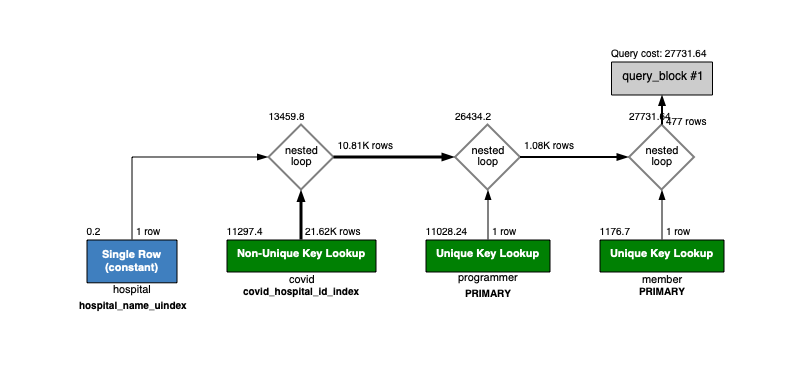
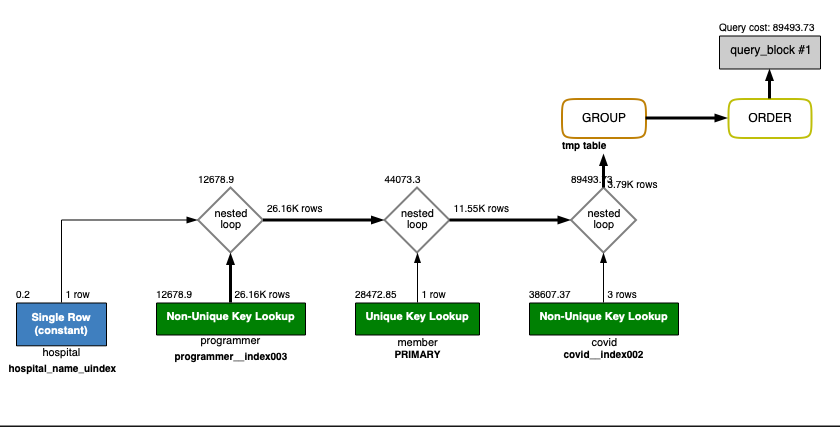
refactor: B. 인덱스 설계 쿼리 수정
- 인라인뷰 쿼리 -> 조인쿼리 변경
- explain before & after 추가
- column update query 추가

diff --git a/images/b/query4.md b/images/b/query4.md
@@ -1,10 +1,10 @@
 ##### Q4. 서울대병원에 다닌 20대 India 환자들을 병원에 머문 기간별로 집계하세요.
 ```sql
-SELECT covid.stay, count(*)
+SELECT covid.stay, count(*) as count
 FROM member
-         INNER JOIN programmer ON member.id = programmer.member_id
-         INNER JOIN covid ON programmer.id = covid.programmer_id
-         INNER JOIN hospital ON covid.hospital_id = hospital.id
+    INNER JOIN programmer ON member.id = programmer.member_id
+    INNER JOIN covid ON programmer.id = covid.programmer_id
+    INNER JOIN hospital ON covid.hospital_id = hospital.id
 WHERE programmer.country = 'India'
   AND member.age >= 20 AND member.age < 30
   AND hospital.name = '서울대병원'
@@ -12,42 +12,83 @@ GROUP BY covid.stay
 ORDER BY NULL;
 ```
 
-##### BEFORE (약 482ms)
+##### BEFORE
 ```text
-+--+-----------+----------+----------+------+--------------------------------------------------------+---------------------------+-------+---------------------------+-----+--------+--------------------------------------------------+
-|id|select_type|table     |partitions|type  |possible_keys                                           |key                        |key_len|ref                        |rows |filtered|Extra                                             |
-+--+-----------+----------+----------+------+--------------------------------------------------------+---------------------------+-------+---------------------------+-----+--------+--------------------------------------------------+
-|1 |SIMPLE     |programmer|NULL      |ref   |PRIMARY,programmer_id_uindex,idx_user_Country_OpenSource|idx_user_Country_OpenSource|1023   |const                      |25612|100     |Using where                                       |
-|1 |SIMPLE     |member    |NULL      |eq_ref|PRIMARY                                                 |PRIMARY                    |8      |subway.programmer.member_id|1    |11.11   |Using where                                       |
-|1 |SIMPLE     |covid     |NULL      |ref   |covid__index001                                         |covid__index001            |9      |subway.programmer.id       |3    |100     |NULL                                              |
-|1 |SIMPLE     |hospital  |NULL      |ALL   |PRIMARY,hospital_id_uindex                              |NULL                       |NULL   |NULL                       |32   |3.12    |Using where; Using join buffer (Block Nested Loop)|
-+--+-----------+----------+----------+------+--------------------------------------------------------+---------------------------+-------+---------------------------+-----+--------+--------------------------------------------------+
++--+-----------+----------+----------+------+-------------+-------+-------+---------------------------+------+--------+--------------------------------------------------+
+|id|select_type|table     |partitions|type  |possible_keys|key    |key_len|ref                        |rows  |filtered|Extra                                             |
++--+-----------+----------+----------+------+-------------+-------+-------+---------------------------+------+--------+--------------------------------------------------+
+|1 |SIMPLE     |hospital  |NULL      |ALL   |NULL         |NULL   |NULL   |NULL                       |32    |10      |Using where; Using temporary                      |
+|1 |SIMPLE     |programmer|NULL      |ALL   |NULL         |NULL   |NULL   |NULL                       |71210 |10      |Using where; Using join buffer (Block Nested Loop)|
+|1 |SIMPLE     |member    |NULL      |eq_ref|PRIMARY      |PRIMARY|8      |subway.programmer.member_id|1     |11.11   |Using where                                       |
+|1 |SIMPLE     |covid     |NULL      |ALL   |NULL         |NULL   |NULL   |NULL                       |315397|1       |Using where; Using join buffer (Block Nested Loop)|
++--+-----------+----------+----------+------+-------------+-------+-------+---------------------------+------+--------+--------------------------------------------------+
+
 ```
 
 ##### AFTER
 ```text
-+--+-----------+----------+----------+------+-------------------------------------------------+--------------------+-------+---------------------------+-----+--------+----------------------------+
-|id|select_type|table     |partitions|type  |possible_keys                                    |key                 |key_len|ref                        |rows |filtered|Extra                       |
-+--+-----------+----------+----------+------+-------------------------------------------------+--------------------+-------+---------------------------+-----+--------+----------------------------+
-|1 |SIMPLE     |hospital  |NULL      |const |PRIMARY,hospital_id_uindex,hospital_name_uindex  |hospital_name_uindex|1022   |const                      |1    |100     |Using index; Using temporary|
-|1 |SIMPLE     |programmer|NULL      |ref   |PRIMARY,programmer_id_uindex,programmer__index003|programmer__index003|1023   |const                      |26162|100     |Using where                 |
-|1 |SIMPLE     |member    |NULL      |eq_ref|PRIMARY,member_index001                          |PRIMARY             |8      |subway.programmer.member_id|1    |44.16   |Using where                 |
-|1 |SIMPLE     |covid     |NULL      |ref   |covid__index001,covid__index002                  |covid__index002     |9      |subway.programmer.id       |3    |10      |Using where                 |
-+--+-----------+----------+----------+------+-------------------------------------------------+--------------------+-------+---------------------------+-----+--------+----------------------------+
-
++--+-----------+----------+----------+------+-----------------------------------------------+--------------------+-------+---------------------------+------+--------+------------------------+
+|id|select_type|table     |partitions|type  |possible_keys                                  |key                 |key_len|ref                        |rows  |filtered|Extra                   |
++--+-----------+----------+----------+------+-----------------------------------------------+--------------------+-------+---------------------------+------+--------+------------------------+
+|1 |SIMPLE     |hospital  |NULL      |const |PRIMARY,hospital_name_uindex,hospital__index001|hospital_name_uindex|1022   |const                      |1     |100     |Using index             |
+|1 |SIMPLE     |covid     |NULL      |index |covid__index001                                |covid__index001     |1039   |NULL                       |315501|10      |Using where; Using index|
+|1 |SIMPLE     |programmer|NULL      |eq_ref|PRIMARY,programmer__index001                   |PRIMARY             |8      |subway.covid.programmer_id |1     |35.14   |Using where             |
+|1 |SIMPLE     |member    |NULL      |eq_ref|PRIMARY,member__index001                       |PRIMARY             |8      |subway.programmer.member_id|1     |11.11   |Using where             |
++--+-----------+----------+----------+------+-----------------------------------------------+--------------------+-------+---------------------------+------+--------+------------------------+
 ```
 
 #### 변경 내용
- ```sql
-alter table hospital modify name varchar(255) not null;
-create unique index hospital_name_uindex on hospital (name);
-alter table member modify age int not null;
-create index member_id_index001 on member (age);
-create index programmer__index003 on programmer (country);
-create index covid__index002 on covid (stay);
- ```
+```sql
+ALTER TABLE hospital
+    MODIFY id int NOT NULL;
 
+ALTER TABLE hospital
+    MODIFY name varchar(255) NOT NULL;
+
+CREATE INDEX hospital__index001
+    ON hospital (name);
+
+CREATE UNIQUE INDEX hospital_name_uindex
+    ON hospital (name);
+
+ALTER TABLE hospital
+    ADD CONSTRAINT hospital_pk
+        PRIMARY KEY (id);
+
+ALTER TABLE covid
+    MODIFY id bigint NOT NULL;
+
+ALTER TABLE covid
+    MODIFY hospital_id bigint NOT NULL;
+
+ALTER TABLE covid
+    MODIFY stay varchar(255) NOT NULL;
+
+CREATE INDEX covid__index001
+    ON covid (stay, programmer_id, hospital_id);
+
+ALTER TABLE covid
+    ADD CONSTRAINT covid_pk
+        PRIMARY KEY (id);
+
+ALTER TABLE programmer
+    MODIFY id bigint NOT NULL;
+
+ALTER TABLE programmer
+    MODIFY country varchar(255) NOT NULL;
+
+CREATE INDEX programmer__index001
+    ON programmer (member_id, id, country);
+
+ALTER TABLE programmer
+    ADD CONSTRAINT programmer_pk
+        PRIMARY KEY (id);
+
+ALTER TABLE member
+    MODIFY age int NOT NULL;
+
+CREATE INDEX member__index001
+    ON member (id, age);
+```
 #### 결과
-- 10 rows retrieved starting from 1 in 317 ms (`execution: 305 ms`, fetching: 12 ms)
-
-## 쿼리 튜닝 생각해보기
+- 10 rows retrieved starting from 1 in 160 ms (`execution: 139 ms`, fetching: 21 ms)

diff --git a/images/b/query3.md b/images/b/query3.md
@@ -8,34 +8,68 @@ WHERE p.hobby = 'Yes'
   AND (p.student LIKE 'Yes%' OR years_coding = '0-2 years')
 ```
 
-##### BEFORE (약 1.700ms)
+##### BEFORE
 ```text
-+--+-----------+-----+----------+------+-------------------------------------------------+--------------------+-------+--------------------+-----+--------+-----------+
-|id|select_type|table|partitions|type  |possible_keys                                    |key                 |key_len|ref                 |rows |filtered|Extra      |
-+--+-----------+-----+----------+------+-------------------------------------------------+--------------------+-------+--------------------+-----+--------+-----------+
-|1 |SIMPLE     |p    |NULL      |ref   |PRIMARY,programmer_id_uindex,programmer__index001|programmer__index001|258    |const               |37232|20      |Using where|
-|1 |SIMPLE     |c    |NULL      |ref   |covid__index001                                  |covid__index001     |9      |subway.p.id         |3    |100     |Using index|
-|1 |SIMPLE     |h    |NULL      |eq_ref|PRIMARY,hospital_id_uindex                       |PRIMARY             |4      |subway.c.hospital_id|1    |100     |Using where|
-+--+-----------+-----+----------+------+-------------------------------------------------+--------------------+-------+--------------------+-----+--------+-----------+
++--+-----------+-----+----------+----+-------------+----+-------+----+------+--------+--------------------------------------------------+
+|id|select_type|table|partitions|type|possible_keys|key |key_len|ref |rows  |filtered|Extra                                             |
++--+-----------+-----+----------+----+-------------+----+-------+----+------+--------+--------------------------------------------------+
+|1 |SIMPLE     |h    |NULL      |ALL |NULL         |NULL|NULL   |NULL|32    |100     |NULL                                              |
+|1 |SIMPLE     |p    |NULL      |ALL |NULL         |NULL|NULL   |NULL|71210 |2       |Using where; Using join buffer (Block Nested Loop)|
+|1 |SIMPLE     |c    |NULL      |ALL |NULL         |NULL|NULL   |NULL|315397|1       |Using where; Using join buffer (Block Nested Loop)|
++--+-----------+-----+----------+----+-------------+----+-------+----+------+--------+--------------------------------------------------+
+
 ```
 
 ##### AFTER
 ```text
-+--+-----------+-----+----------+------+-------------------------------------------------+--------------------+-------+--------------------+-----+--------+---------------------+
-|id|select_type|table|partitions|type  |possible_keys                                    |key                 |key_len|ref                 |rows |filtered|Extra                |
-+--+-----------+-----+----------+------+-------------------------------------------------+--------------------+-------+--------------------+-----+--------+---------------------+
-|1 |SIMPLE     |p    |NULL      |ref   |PRIMARY,programmer_id_uindex,programmer__index002|programmer__index002|258    |const               |37232|20      |Using index condition|
-|1 |SIMPLE     |c    |NULL      |ref   |covid__index001                                  |covid__index001     |9      |subway.p.id         |3    |100     |Using index          |
-|1 |SIMPLE     |h    |NULL      |eq_ref|PRIMARY,hospital_id_uindex                       |PRIMARY             |4      |subway.c.hospital_id|1    |100     |Using where          |
-+--+-----------+-----+----------+------+-------------------------------------------------+--------------------+-------+--------------------+-----+--------+---------------------+
++--+-----------+-----+----------+------+----------------------------+--------------------+-------+--------------------+-----+--------+------------------------+
+|id|select_type|table|partitions|type  |possible_keys               |key                 |key_len|ref                 |rows |filtered|Extra                   |
++--+-----------+-----+----------+------+----------------------------+--------------------+-------+--------------------+-----+--------+------------------------+
+|1 |SIMPLE     |p    |NULL      |ref   |PRIMARY,programmer__index001|programmer__index001|258    |const               |37232|20      |Using index condition   |
+|1 |SIMPLE     |c    |NULL      |ref   |covid__index001             |covid__index001     |9      |subway.p.id         |3    |100     |Using where; Using index|
+|1 |SIMPLE     |h    |NULL      |eq_ref|PRIMARY                     |PRIMARY             |4      |subway.c.hospital_id|1    |100     |Using where             |
++--+-----------+-----+----------+------+----------------------------+--------------------+-------+--------------------+-----+--------+------------------------+
 ```
 
 #### 변경 내용
  ```sql
-alter table programmer modify student varchar(64) not null;
-alter table programmer modify years_coding varchar(255) not null;
-drop index programmer__index001 on programmer;
-create index programmer__index002 on programmer (hobby, student, years_coding);
+ALTER TABLE programmer
+    MODIFY id bigint NOT NULL;
+
+ALTER TABLE programmer
+    MODIFY hobby varchar(64) NOT NULL;
+
+ALTER TABLE programmer
+    MODIFY student varchar(64) NOT NULL;
+
+ALTER TABLE programmer
+    MODIFY years_coding varchar(255) NOT NULL;
+
+CREATE INDEX programmer__index001
+    ON programmer (hobby, student, years_coding);
+
+ALTER TABLE programmer
+    ADD CONSTRAINT programmer_pk
+        PRIMARY KEY (id);
+
+ALTER TABLE covid
+    MODIFY id bigint NOT NULL;
+
+CREATE INDEX covid__index001
+    ON covid (programmer_id, hospital_id);
+
+ALTER TABLE covid
+    ADD CONSTRAINT covid_pk
+        PRIMARY KEY (id);
+
+ALTER TABLE hospital
+    MODIFY id int NOT NULL;
+
+ALTER TABLE hospital
+    ADD CONSTRAINT hospital_pk
+        PRIMARY KEY (id);
+
+
  ```
 
 #### 결과

diff --git a/images/b/query5.md b/images/b/query5.md
@@ -1,18 +1,59 @@
-##### Q1. 1. Coding as a Hobby 와 같은 결과를 반환하세요.
+##### Q5. 서울대병원에 다닌 30대 환자들을 운동 횟수별로 집계하세요.
 ```sql
+SELECT p.exercise, COUNT(*)
+FROM (SELECT id FROM member WHERE age >= 30 AND age < 40) AS a
+         INNER JOIN programmer p ON a.id = p.member_id
+         INNER JOIN covid c ON c.programmer_id = p.id
+         INNER JOIN hospital h ON c.hospital_id = h.id
+WHERE h.name = '서울대병원'
+GROUP BY p.exercise
+ORDER BY NULL
+```
+
+##### BEFORE 
+```text
++--+-----------+------+----------+------+-------------+-------+-------+------------------+------+--------+--------------------------------------------------+
+|id|select_type|table |partitions|type  |possible_keys|key    |key_len|ref               |rows  |filtered|Extra                                             |
++--+-----------+------+----------+------+-------------+-------+-------+------------------+------+--------+--------------------------------------------------+
+|1 |SIMPLE     |h     |NULL      |ALL   |NULL         |NULL   |NULL   |NULL              |32    |10      |Using where; Using temporary                      |
+|1 |SIMPLE     |c     |NULL      |ALL   |NULL         |NULL   |NULL   |NULL              |315397|10      |Using where; Using join buffer (Block Nested Loop)|
+|1 |SIMPLE     |p     |NULL      |ALL   |NULL         |NULL   |NULL   |NULL              |71210 |10      |Using where; Using join buffer (Block Nested Loop)|
+|1 |SIMPLE     |member|NULL      |eq_ref|PRIMARY      |PRIMARY|8      |subway.p.member_id|1     |11.11   |Using where                                       |
++--+-----------+------+----------+------+-------------+-------+-------+------------------+------+--------+--------------------------------------------------+
 
 ```
 
-##### BEFORE (약 506ms)
-
-
 ##### AFTER
+```text
++--+-----------+----------+----------+------+----------------------------+--------------------+-------+---------------------------+-----+--------+----------------------------+
+|id|select_type|table     |partitions|type  |possible_keys               |key                 |key_len|ref                        |rows |filtered|Extra                       |
++--+-----------+----------+----------+------+----------------------------+--------------------+-------+---------------------------+-----+--------+----------------------------+
+|1 |SIMPLE     |hospital  |NULL      |const |PRIMARY,hospital_name_uindex|hospital_name_uindex|1022   |const                      |1    |100     |Using index; Using temporary|
+|1 |SIMPLE     |covid     |NULL      |ref   |covid__index001             |covid__index001     |8      |const                      |10165|100     |Using index condition       |
+|1 |SIMPLE     |programmer|NULL      |eq_ref|PRIMARY                     |PRIMARY             |8      |subway.covid.programmer_id |1    |10      |Using where                 |
+|1 |SIMPLE     |member    |NULL      |eq_ref|PRIMARY,member__index001    |PRIMARY             |8      |subway.programmer.member_id|1    |44.16   |Using where                 |
++--+-----------+----------+----------+------+----------------------------+--------------------+-------+---------------------------+-----+--------+----------------------------+
 
+```
 
 #### 변경 내용
  ```sql
+ALTER TABLE covid MODIFY id bigint NOT NULL;
+ALTER TABLE covid MODIFY hospital_id bigint NOT NULL;
+CREATE INDEX covid__index001 ON covid (hospital_id, programmer_id);
+ALTER TABLE covid ADD CONSTRAINT covid_pk PRIMARY KEY (id);
 
+ALTER TABLE member MODIFY age int NOT NULL; 
+CREATE INDEX member__index001 ON member (age);
+
+ALTER TABLE programmer MODIFY id bigint NOT NULL;
+ALTER TABLE programmer MODIFY exercise varchar(255) NOT NULL;
+CREATE INDEX programmer__index001 ON programmer (exercise, member_id, id);
+ALTER TABLE programmer ADD CONSTRAINT programmer_pk PRIMARY KEY (id);
+
+ALTER TABLE hospital MODIFY name varchar(255) NOT NULL;
+CREATE UNIQUE INDEX hospital_name_uindex ON hospital (name);
  ```
 
 #### 결과
-- 14 rows retrieved starting from 1 in 33 ms (`execution: 6 ms`, fetching: 27 ms)
+- 10 rows retrieved starting from 1 in 74 ms (execution: 44 ms, fetching: 30 ms)

diff --git a/images/b/query2.md b/images/b/query2.md
@@ -1,20 +1,20 @@
 ##### Q2. 프로그래머별로 해당하는 병원 이름을 반환하세요. (covid.id, hospital.name)
 ```sql
 SELECT covid.id, name
-FROM programmer
-         INNER JOIN covid ON programmer.id = covid.programmer_id
-         INNER JOIN hospital ON covid.hospital_id = hospital.id;
+FROM covid
+         INNER JOIN hospital ON covid.hospital_id = hospital.id
+WHERE covid.programmer_id IS NOT NULL;
+
 ```
 
-##### BEFORE (약 490ms)
+##### BEFORE
 ```text
-+--+-----------+----------+----------+----+--------------------+--------------------+-------+--------------------------+------+--------+--------------------------------------------------+
-|id|select_type|table     |partitions|type|possible_keys       |key                 |key_len|ref                       |rows  |filtered|Extra                                             |
-+--+-----------+----------+----------+----+--------------------+--------------------+-------+--------------------------+------+--------+--------------------------------------------------+
-|1 |SIMPLE     |h         |NULL      |ALL |NULL                |NULL                |NULL   |NULL                      |32    |100     |NULL                                              |
-|1 |SIMPLE     |covid     |NULL      |ALL |NULL                |NULL                |NULL   |NULL                      |315397|10      |Using where; Using join buffer (Block Nested Loop)|
-|1 |SIMPLE     |programmer|NULL      |ref |programmer_id_uindex|programmer_id_uindex|9      |subway.covid.programmer_id|1     |100     |Using index                                       |
-+--+-----------+----------+----------+----+--------------------+--------------------+-------+--------------------------+------+--------+--------------------------------------------------+
++--+-----------+--------+----------+----+-------------+----+-------+----+------+--------+--------------------------------------------------+
+|id|select_type|table   |partitions|type|possible_keys|key |key_len|ref |rows  |filtered|Extra                                             |
++--+-----------+--------+----------+----+-------------+----+-------+----+------+--------+--------------------------------------------------+
+|1 |SIMPLE     |hospital|NULL      |ALL |NULL         |NULL|NULL   |NULL|32    |100     |NULL                                              |
+|1 |SIMPLE     |covid   |NULL      |ALL |NULL         |NULL|NULL   |NULL|315397|9       |Using where; Using join buffer (Block Nested Loop)|
++--+-----------+--------+----------+----+-------------+----+-------+----+------+--------+--------------------------------------------------+
 ```
 
 ##### AFTER
@@ -29,17 +29,24 @@ FROM programmer
 
 #### 변경 내용
  ```sql
-alter table covid modify id bigint not null;
-create unique index covid_id_uindex	on covid (id);
-alter table covid	add constraint covid_pk	primary key (id);
+ALTER TABLE covid
+    ADD CONSTRAINT covid_pk PRIMARY KEY (id);
+ALTER TABLE covid
+    MODIFY id bigint NOT NULL;
+ALTER TABLE covid
+    MODIFY hospital_id bigint NOT NULL;
+CREATE INDEX covid__index001 ON covid (programmer_id, hospital_id);
 
-alter table programmer modify id bigint not null;
-alter table programmer add constraint programmer_pk primary key (id);
+ALTER TABLE programmer
+    MODIFY id bigint NOT NULL;
+ALTER TABLE programmer
+    ADD CONSTRAINT programmer_pk PRIMARY KEY (id);
 
-alter table hospital modify id int not null;
-create unique index hospital_id_uindex on hospital (id);
-alter table hospital add constraint hospital_pk primary key (id);
+ALTER TABLE hospital
+    MODIFY id int NOT NULL;
+ALTER TABLE hospital
+    ADD CONSTRAINT hospital_pk PRIMARY KEY (id);
  ```
 
 #### 결과
-- 96180 rows retrieved starting from 1 in 463 ms (`execution: 9 ms`, fetching: 454 ms)
+- 96,180 rows retrieved starting from 1 in 783 ms (`execution: 14 ms`, fetching: 769 ms)

diff --git a/images/b/query1.md b/images/b/query1.md
@@ -21,12 +21,12 @@ ORDER BY hobby DESC
 
 ##### BEFORE (약 840ms)
 ```text
-+--+-----------+----------+----------+-----+-------------+--------------------+-------+----+-----+--------+-------------------------------+
-|id|select_type|table     |partitions|type |possible_keys|key                 |key_len|ref |rows |filtered|Extra                          |
-+--+-----------+----------+----------+-----+-------------+--------------------+-------+----+-----+--------+-------------------------------+
-|1 |PRIMARY    |programmer|NULL      |ALL  |NULL         |NULL                |NULL   |NULL|81739|100     |Using temporary; Using filesort|
-|2 |SUBQUERY   |programmer|NULL      |index|NULL         |programmer_id_uindex|9      |NULL|81739|100     |Using index                    |
-+--+-----------+----------+----------+-----+-------------+--------------------+-------+----+-----+--------+-------------------------------+
++--+-----------+----------+----------+----+-------------+----+-------+----+-----+--------+-------------------------------+
+|id|select_type|table     |partitions|type|possible_keys|key |key_len|ref |rows |filtered|Extra                          |
++--+-----------+----------+----------+----+-------------+----+-------+----+-----+--------+-------------------------------+
+|1 |PRIMARY    |programmer|NULL      |ALL |NULL         |NULL|NULL   |NULL|71210|100     |Using temporary; Using filesort|
+|2 |SUBQUERY   |programmer|NULL      |ALL |NULL         |NULL|NULL   |NULL|71210|100     |NULL                           |
++--+-----------+----------+----------+----+-------------+----+-------+----+-----+--------+-------------------------------+
 ```
 
 
@@ -44,8 +44,9 @@ ORDER BY hobby DESC
 
 #### 변경 내용
  ```sql
-alter table programmer modify hobby varchar(64) not null;
-create index programmer__index001 on programmer (hobby);
+ALTER TABLE programmer
+    MODIFY hobby varchar(64) NOT NULL;
+CREATE INDEX programmer__index001 ON programmer (hobby);
  ```
 
 #### 결과
